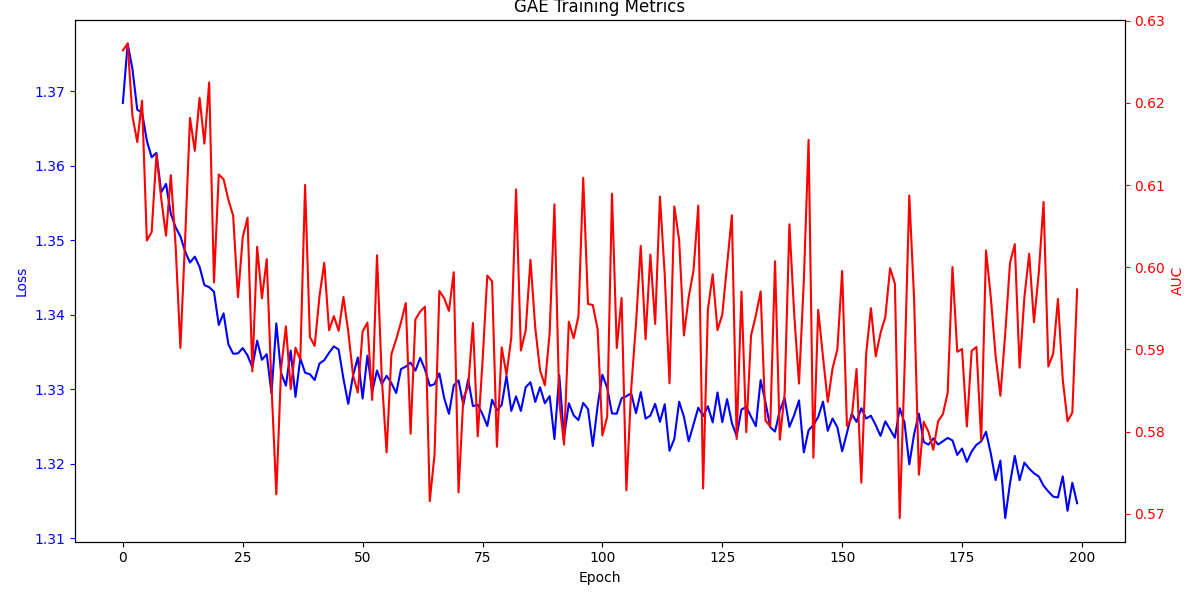
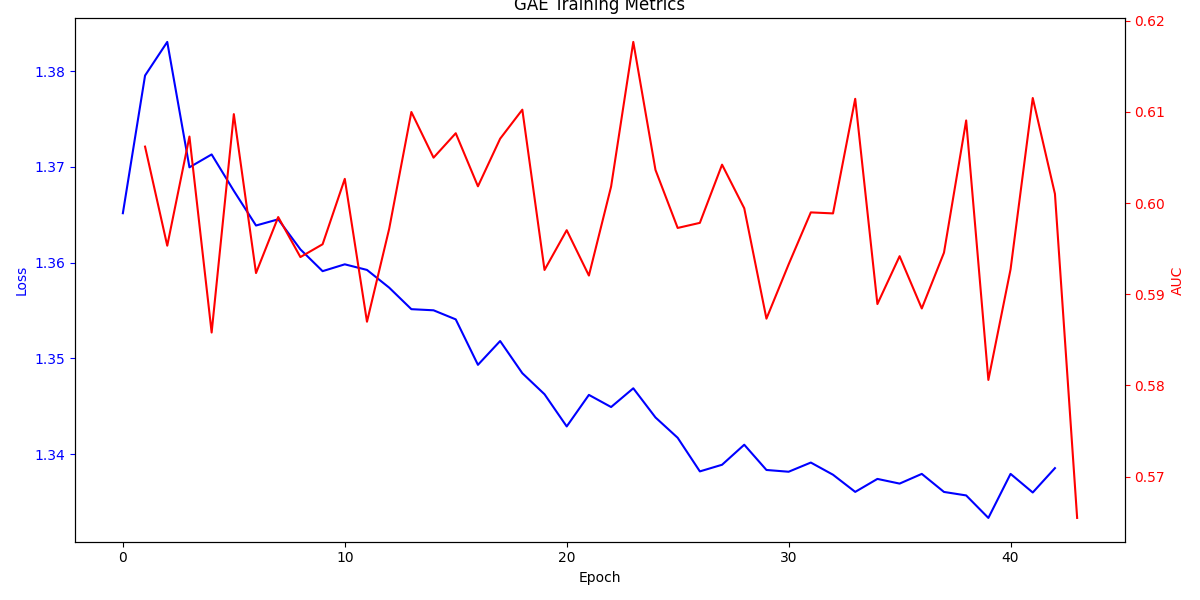
New GAE run

diff --git a/project/role_discovery/models/GNNEmbedder.py b/project/role_discovery/models/GNNEmbedder.py
@@ -7,7 +7,7 @@ import torch_geometric.transforms as T
 import matplotlib.pyplot as plt
 from pathlib import Path
 from torch_geometric.utils import degree, negative_sampling
-
+import copy 
 from .RoleDiscoveryModel import RoleDiscoveryModel
 
 class GCNEncoder(torch.nn.Module):
@@ -22,8 +22,9 @@ class GCNEncoder(torch.nn.Module):
 
 class GNNEmbedder(RoleDiscoveryModel):
     def __init__(self, hidden_channels: int = 128, emb_dim: int = 32,
-                 epochs: int = 200, lr: float = 0.01,
-                 val_ratio: float = 0.1, test_ratio: float = 0.05):
+                     epochs: int = 500, lr: float = 0.01, 
+                     val_ratio: float = 0.1, test_ratio: float = 0.05,
+                     patience: int = 20): 
         print("Initialized GNN Embedder (GAE) for Role Discovery.")
         self.epochs = epochs
         self.lr = lr
@@ -31,23 +32,24 @@ class GNNEmbedder(RoleDiscoveryModel):
         self.emb_dim = emb_dim
         self.val_ratio = val_ratio
         self.test_ratio = test_ratio
+        self.patience = patience 
         self.model = None
         self.embeddings = None
         self.train_losses = []
         self.val_aucs = []
 
     def train(self, graph_data: Data):
-        print("Starting GAE training with validation...")
+        print("Starting GAE training with validation and early stopping...")
 
-        # 1. Use node degrees as features
+        # Use node degrees as features
         deg = degree(graph_data.edge_index[0], graph_data.num_nodes).view(-1, 1)
         
-        # 2. Apply feature normalization
+        # Apply feature normalization
         transform = T.NormalizeFeatures()
         structural_data = Data(x=deg, edge_index=graph_data.edge_index)
         structural_data = transform(structural_data)
 
-        # 3. Split data into training, validation, and test sets
+        # Split data into training, validation, and test sets
         split_transform = T.RandomLinkSplit(
             num_val=self.val_ratio,
             num_test=self.test_ratio,
@@ -56,7 +58,7 @@ class GNNEmbedder(RoleDiscoveryModel):
         )
         train_data, val_data, test_data = split_transform(structural_data)
 
-        # 4. Initialize the GAE model
+        # Initialize the GAE model
         in_channels = train_data.num_features
         encoder = GCNEncoder(in_channels, self.hidden_channels, self.emb_dim)
         self.model = GAE(encoder)
@@ -65,6 +67,7 @@ class GNNEmbedder(RoleDiscoveryModel):
         
         best_val_auc = 0
         best_model_state = None
+        patience_counter = 0 
 
         for epoch in range(1, self.epochs + 1):
             self.model.train()
@@ -76,11 +79,9 @@ class GNNEmbedder(RoleDiscoveryModel):
             
             self.train_losses.append(loss.item())
 
-            # Validation step
             self.model.eval()
             with torch.no_grad():
                 z = self.model.encode(val_data.x, val_data.edge_index)
-                # Generate negative samples for validation if they don't exist
                 if not hasattr(val_data, 'neg_edge_label_index'):
                     num_neg_edges = val_data.edge_label_index.size(1)
                     neg_edge_index = negative_sampling(
@@ -95,20 +96,31 @@ class GNNEmbedder(RoleDiscoveryModel):
 
             if val_auc > best_val_auc:
                 best_val_auc = val_auc
-                best_model_state = self.model.state_dict()
-
-            if epoch % 20 == 0:
+                best_model_state = copy.deepcopy(self.model.state_dict()) 
+                patience_counter = 0
+            else:
+                patience_counter += 1
+            
+            if epoch % 10 == 0: 
                 print(f'Epoch: {epoch:03d}, Loss: {loss:.4f}, Val AUC: {val_auc:.4f}')
 
-        print("GAE training finished.")
+            if patience_counter >= self.patience:
+                print(f"Early stopping at epoch {epoch} due to no improvement in Val AUC for {self.patience} checks.")
+                break
         
+        if best_model_state:
+            print(f"Training finished. Loading best model with Val AUC: {best_val_auc:.4f}")
+            self.model.load_state_dict(best_model_state)
+        else:
+            print("Warning: Training finished, but no best model was saved. Using the last state.")
+
         # Save the best model
         if best_model_state is not None:
-            model_save_path = 'best_gae_model.pt'
+            project_root = Path(__file__).resolve().parents[2]
+            model_save_path = project_root / 'best_gae_model.pt'
             torch.save(best_model_state, model_save_path)
             print(f'Best model saved to {model_save_path} with Val AUC: {best_val_auc:.4f}')
 
-        # Plot and save the metrics
         fig, ax1 = plt.subplots(figsize=(12, 6))
         ax1.plot(self.train_losses, 'b-', label='Training Loss')
         ax1.set_xlabel('Epoch')
@@ -116,22 +128,20 @@ class GNNEmbedder(RoleDiscoveryModel):
         ax1.tick_params('y', colors='b')
 
         ax2 = ax1.twinx()
-        ax2.plot(self.val_aucs, 'r-', label='Validation AUC')
+        ax2.plot(range(1, len(self.val_aucs) + 1), self.val_aucs, 'r-', label='Validation AUC')
         ax2.set_ylabel('AUC', color='r')
         ax2.tick_params('y', colors='r')
 
         fig.tight_layout()
         plt.title('GAE Training Metrics')
-        plot_save_path = 'training_metrics.png'
+        plot_save_path = project_root / 'training_metrics.png'
         plt.savefig(plot_save_path)
         print(f'Training metrics plot saved to {plot_save_path}')
         plt.close()
 
-        # Final evaluation on the full data to get embeddings
         with torch.no_grad():
             self.model.eval()
             self.embeddings = self.model.encode(structural_data.x, structural_data.edge_index).detach()
-
 
     def predict(self, graph_data: Data, k: int) -> tuple[torch.Tensor, torch.Tensor]:
         if self.embeddings is None:

diff --git a/project/role_discovery/RoleDiscoveryExperiment.py b/project/role_discovery/RoleDiscoveryExperiment.py
@@ -67,7 +67,7 @@ def run_role_discovery_experiment(dataset_name: str):
                 continue
 
         results_df = pd.DataFrame(results).set_index('k')
-        print("\n--- Clustering Evaluation Summary ---")
+        print("\n### Clustering Evaluation Summary")
         print(results_df.to_string(float_format="%.4f"))
         print(f"\nBest result found for k={best_k} with a Silhouette Score of {best_score:.4f}")
 

diff --git a/project/role_discovery/utils/visualization.py b/project/role_discovery/utils/visualization.py
@@ -5,9 +5,6 @@ from sklearn.manifold import TSNE
 
 def visualize_roles_tsne(embeddings: torch.Tensor, role_labels: torch.Tensor, title: str,
                          score: float, save_path: str = None):
-    """
-    Visualizes node embeddings in 2D using t-SNE, colored by their assigned role.
-    """
     print(f"Generating t-SNE visualization for: {title}")
     
     embeddings_np = embeddings.cpu().detach().numpy()

diff --git a/project/role_discovery/models/RoleDiscoveryModel.py b/project/role_discovery/models/RoleDiscoveryModel.py
@@ -1,12 +1,9 @@
-# project/role_discovery/models/RoleDiscoveryModel.py
 from abc import ABC, abstractmethod
 from typing import Tuple
 import torch
 from torch_geometric.data import Data
 
 class RoleDiscoveryModel(ABC):
-    """Abstract base class for all role discovery models."""
-
     def train(self, graph_data: Data):
         """
         Optional training step for models that require it.

diff --git a/project/role_discovery/models/FeatureBasedRoles.py b/project/role_discovery/models/FeatureBasedRoles.py
@@ -1,4 +1,3 @@
-# project/role_discovery/models/FeatureBasedRoles.py
 import torch
 import numpy as np
 import networkx as nx
